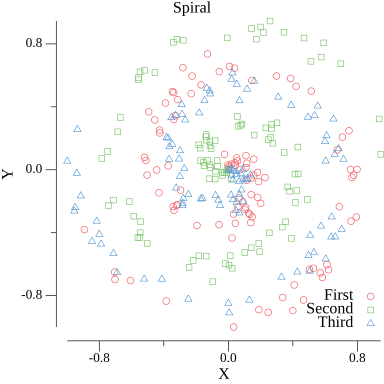
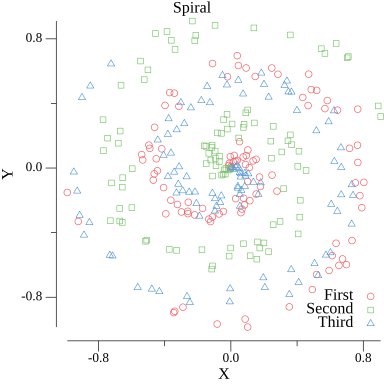
Set up a seed

diff --git a/nnfs/main.go b/nnfs/main.go
@@ -1,8 +1,12 @@
 package main
 
-import nnfs "nnfs/ch2"
+import (
+	"math/rand"
+	nnfs "nnfs/ch2"
+)
 
 func main() {
+	rand.Seed(42)
 	ch2()
 }
 
